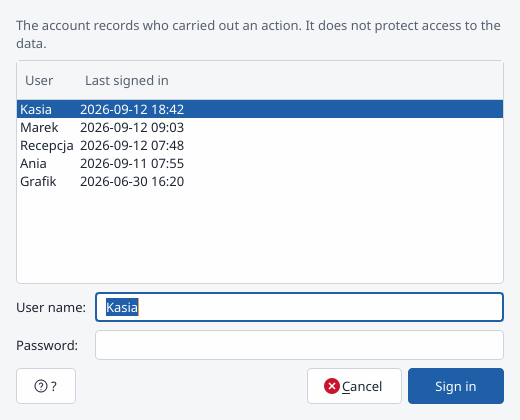
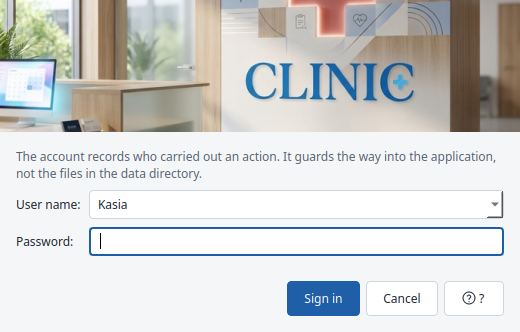
Html update

diff --git a/docs/index.html b/docs/index.html
@@ -368,7 +368,7 @@
                 <ul class="feature-list">
                     <li><strong>Kopie zapasowe</strong> automatycznie przy starcie, cyklicznie w trakcie pracy i — jeżeli tak ustawiono — przy zamknięciu; odtwarzanie z listy kopii, z kopią stanu bieżącego przed odtworzeniem.</li>
                     <li><strong>Dziennik zmian</strong> — data, użytkownik, rodzaj operacji i rekord, z filtrowaniem; bez wartości sprzed zmiany, żeby nie powstał drugi zbiór danych pacjentów.</li>
-                    <li><strong>Konta użytkowników</strong> z opcjonalnym hasłem — służą podpisaniu operacji autorem, nie ochronie dostępu.</li>
+                    <li><strong>Konta użytkowników</strong> podpisują autorem każdą operację. Domyślnie nie chronią dostępu, ale przychodnia może zamknąć zakładanie kont z okna logowania i wymagać hasła od każdego konta — wtedy do programu wchodzi się wyłącznie na istniejące konto i z jego hasłem. Plików z danymi nie chroni to nadal: tym zajmuje się zabezpieczenie stanowiska.</li>
                     <li><strong>Blokada ekranu</strong> na skrót <kbd>Ctrl</kbd>+<kbd>L</kbd> i po czasie bezczynności.</li>
                     <li><strong>RODO</strong> — przeciwwskazania traktowane jak dane szczególnej kategorii, anonimizacja pacjenta i osoby masującej, brak danych pacjentów poza katalogiem danych i kopiami.</li>
                 </ul>
@@ -444,7 +444,7 @@
             </figure>
             <figure>
                 <div class="shot-frame">
-                    <img src="assets/img/screens/pl/login.png" alt="Okno logowania z listą kont" loading="lazy">
+                    <img src="assets/img/screens/pl/login.png" alt="Okno logowania z polem konta i polem hasła" loading="lazy">
                 </div>
                 <figcaption>Logowanie — konto wskazuje autora operacji.</figcaption>
             </figure>

diff --git a/docs/en/index.html b/docs/en/index.html
@@ -369,7 +369,7 @@
                 <ul class="feature-list">
                     <li><strong>Backups</strong> automatically at start, periodically during work and — when set so — on exit; restoring from a list of copies, with a copy of the current state taken first.</li>
                     <li><strong>The change log</strong> — date, user, kind of operation and record, with filters; it never holds the value from before a change, so that a second set of patient data cannot arise.</li>
-                    <li><strong>User accounts</strong> with an optional password — they attribute operations to a person rather than guard access.</li>
+                    <li><strong>User accounts</strong> sign every operation with its author. By default they guard no access, but the clinic can close account creation in the sign-in window and require a password of every account — the way in is then an existing account and its password. The data files themselves stay for the workstation to protect.</li>
                     <li><strong>A screen lock</strong> on <kbd>Ctrl</kbd>+<kbd>L</kbd> and after a period of inactivity.</li>
                     <li><strong>GDPR</strong> — contraindications treated as a special category of data, anonymisation of a patient and of a therapist, and no patient data outside the data directory and its backups.</li>
                 </ul>
@@ -445,7 +445,7 @@
             </figure>
             <figure>
                 <div class="shot-frame">
-                    <img src="../assets/img/screens/en/login.png" alt="The sign-in window with the list of accounts" loading="lazy">
+                    <img src="../assets/img/screens/en/login.png" alt="The sign-in window with the account and password fields" loading="lazy">
                 </div>
                 <figcaption>Signing in — the account names the author of every operation.</figcaption>
             </figure>
